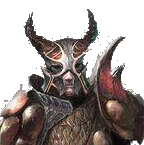
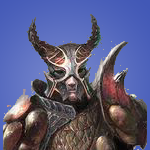
finish diferent players

diff --git a/BlindShotClient/resources/css/style.css b/BlindShotClient/resources/css/style.css
@@ -11,3 +11,25 @@
     -fx-background-size: cover;
     -fx-background-repeat: no-repeat;
 }
+
+.avatarHover{
+    -fx-border-color: red;
+}
+
+
+.initialAvatar{
+    -fx-opacity: 0.5;
+}
+
+.avatarSelected{
+    -fx-border-color: red;
+    -fx-opacity: 1;
+}
+
+#AvatarText{
+    -fx-font-size: 16;
+    -fx-font-family: sans-serif;
+    -fx-text-fill: white;
+    -fx-fill: white;
+    -fx-text-alignment: center;
+}

diff --git a/BlindShotClient/src/org/academiadecodigo/bootcamp/controller/MenuController.java b/BlindShotClient/src/org/academiadecodigo/bootcamp/controller/MenuController.java
@@ -1,5 +1,6 @@
 package org.academiadecodigo.bootcamp.controller;
 
+import javafx.animation.TranslateTransition;
 import javafx.event.EventHandler;
 import javafx.fxml.FXML;
 import javafx.fxml.Initializable;
@@ -14,12 +15,16 @@ import javafx.scene.image.Image;
 import javafx.scene.image.ImageView;
 import javafx.scene.input.MouseEvent;
 import javafx.scene.layout.GridPane;
+import javafx.scene.layout.Pane;
+import javafx.scene.text.Text;
+import javafx.util.Duration;
 import org.academiadecodigo.bootcamp.Client;
 import org.academiadecodigo.bootcamp.Navigation;
 import org.academiadecodigo.bootcamp.Service.MessageService;
 import org.academiadecodigo.bootcamp.Waiting;
 import org.academiadecodigo.bootcamp.avatar.Avatar;
 
+import java.awt.*;
 import java.io.IOException;
 import java.net.URL;
 import java.util.ResourceBundle;
@@ -30,6 +35,8 @@ import java.util.ResourceBundle;
 public class MenuController implements Initializable {
 
     private Client client;
+
+    private Node node;
 
     @FXML
     private Button playButton;
@@ -43,10 +50,39 @@ public class MenuController implements Initializable {
     @FXML
     private GridPane menuPane;
 
-    private EventHandler AvatarSelected = new EventHandler<MouseEvent>() {
+    private EventHandler avatarSelected = new EventHandler<MouseEvent>() {
         @Override
         public void handle(MouseEvent event) {
-            GridController.setAvatar(Avatar.values()[Integer.parseInt(event.getPickResult().getIntersectedNode().getId())]);
+
+            for (Node s : menuPane.getChildren()) {
+                if (s.getId().contains("Avatar")) {
+                    s.getStyleClass().remove("avatarSelected");
+                }
+            }
+
+            event.getPickResult().getIntersectedNode().getStyleClass().add("avatarSelected");
+            event.getPickResult().getIntersectedNode().getStyleClass().remove("initialAvatar");
+
+            String[] divide;
+            divide = event.getPickResult().getIntersectedNode().getId().split(" ");
+
+            GridController.setAvatar(Avatar.values()[Integer.parseInt(divide[1])]);
+        }
+    };
+    private EventHandler hoverAvatar = new EventHandler<MouseEvent>() {
+        @Override
+        public void handle(MouseEvent event) {
+            node = event.getPickResult().getIntersectedNode();
+            event.getPickResult().getIntersectedNode().getStyleClass().add("avatarHover");
+            event.getPickResult().getIntersectedNode().getStyleClass().remove("initialAvatar");
+        }
+    };
+
+    private EventHandler exitAvatar = new EventHandler<MouseEvent>() {
+        @Override
+        public void handle(MouseEvent event) {
+            node.getStyleClass().remove("avatarHover");
+            node.getStyleClass().add("initialAvatar");
         }
     };
 
@@ -60,29 +96,54 @@ public class MenuController implements Initializable {
 
         //create avatars to choose
 
-        for(int i = 0 ; i < Avatar.values().length ; i++){
-            Image image = new Image(Avatar.values()[i].getImage());
-            ImageView iv1 = new ImageView();
-            iv1.setImage(image);
-            iv1.setId(""+i);
+        for (int i = 0; i < Avatar.values().length; i++) {
+            Text avatarGrid = new Text();
+            Label iv1 = new Label();
+            iv1.setMaxSize(150, 150);
+            iv1.setId("Avatar " + i);
+            iv1.setStyle("-fx-background-image:url(" + Avatar.values()[i].getImage() + ") ");
+            iv1.getStyleClass().add("initialAvatar");
+            iv1.setTranslateY(-30);
+            avatarGrid.setText(Avatar.values()[i].getName());
+            avatarGrid.setId("AvatarText");
+            avatarGrid.setTranslateY(70);
+            if (i == 0) {
+                TranslateTransition tt = new TranslateTransition(Duration.millis(1495), iv1);
+                TranslateTransition uu = new TranslateTransition(Duration.millis(1495), avatarGrid);
 
-            if (i % 2 == 0 && i > 0){
-                iv1.setTranslateX(-180);
-            } else{
-                iv1.setTranslateX(180);
+                uu.setByX(-200);
+                tt.setByX(-200);
+
+                tt.play();
+                uu.play();
+            }
+            if (i == 1) {
+                TranslateTransition t2 = new TranslateTransition(Duration.millis(1495), iv1);
+                TranslateTransition t1 = new TranslateTransition(Duration.millis(1495), avatarGrid);
+
+                t1.setByX(200);
+                t2.setByX(200);
+
+                t1.play();
+                t2.play();
             }
 
-            if(i == 0){
-                iv1.setTranslateX(0);
+            if (i == 2) {
+                TranslateTransition tt = new TranslateTransition(Duration.millis(1495), iv1);
+                tt.setByX(0);
+                tt.play();
             }
+
 
             menuPane.setHalignment(iv1, HPos.CENTER);
-            menuPane.add(iv1,0,0);
+            menuPane.setHalignment(avatarGrid, HPos.CENTER);
+            menuPane.add(iv1, 0, 0);
+            menuPane.add(avatarGrid, 0, 0);
             menuPane.setAlignment(Pos.CENTER);
-            iv1.setOnMouseClicked(AvatarSelected);
-            //System.out.println(Navigation.getInstance().getScene().getWidth());
+            iv1.setOnMouseClicked(avatarSelected);
+            iv1.setOnMouseEntered(hoverAvatar);
+            iv1.setOnMouseExited(exitAvatar);
         }
-
 
 
         //client = Navigation.getInstance().getClient();

diff --git a/BlindShotClient/src/org/academiadecodigo/bootcamp/avatar/Avatar.java b/BlindShotClient/src/org/academiadecodigo/bootcamp/avatar/Avatar.java
@@ -4,18 +4,20 @@ package org.academiadecodigo.bootcamp.avatar;
  * Created by codecadet on 05/07/17.
  */
 public enum Avatar {
-    ASSASSIN(5,2,"images/Avatar/1.png"),
-    FATONE(1,5,"images/Avatar/2.png"),
-    KILLER(3,3,"images/Avatar/3.png");
+    ASSASSIN(4,1,"images/Avatar/1.png","Assassin \n Walk 4 - Attack 1"),
+    FATONE(1,4,"images/Avatar/2.png","Fat One \n Walk 1 - Attack 4"),
+    KILLER(3,3,"images/Avatar/3.png","Killer \n Walk 3 - Attack 3");
 
     private  int moveRange;
     private int killRange;
     private String image;
+    private String name;
 
-    Avatar(int moveRange, int killRange,String image) {
+    Avatar(int moveRange, int killRange,String image,String name) {
         this.moveRange = moveRange;
         this.killRange = killRange;
         this.image = image;
+        this.name = name;
     }
 
     public String getImage() {
@@ -40,6 +42,14 @@ public enum Avatar {
 
     public void setKillRange(int killRange) {
         this.killRange = killRange;
+    }
+
+    public String getName() {
+        return name;
+    }
+
+    public void setName(String name) {
+        this.name = name;
     }
 
     @Override

diff --git a/BlindShotClient/src/org/academiadecodigo/bootcamp/controller/GridController.java b/BlindShotClient/src/org/academiadecodigo/bootcamp/controller/GridController.java
@@ -117,9 +117,6 @@ public class GridController implements Initializable {
         this.myGridElements = grid.getChildren();
         System.out.println("grid loaded");
         new Thread(new turnMessage()).start();
-
-        System.out.println(avatar.getKillRange());
-        System.out.println(avatar.toString());
         createGridElements();
         createPlayerObject();
 
@@ -268,7 +265,7 @@ public class GridController implements Initializable {
      * Create the highlight to see were the player should go. Move mode
      */
     private void seeWereCanPlayerGo() {
-        int PlayerWalker = 2;
+        int PlayerWalker = avatar.getMoveRange();
         int Prow = getMyPlayerCoordenates().get("Row");
         int Pcolumn = getMyPlayerCoordenates().get("Column");
 
@@ -315,7 +312,7 @@ public class GridController implements Initializable {
 
 
     private void atack() {
-        int AtakLenght = 1;
+        int AtakLenght = avatar.getKillRange();
         int PlayerRow = getMyPlayerCoordenates().get("Row").intValue();
         int PlayerColumn = getMyPlayerCoordenates().get("Column").intValue();
 
